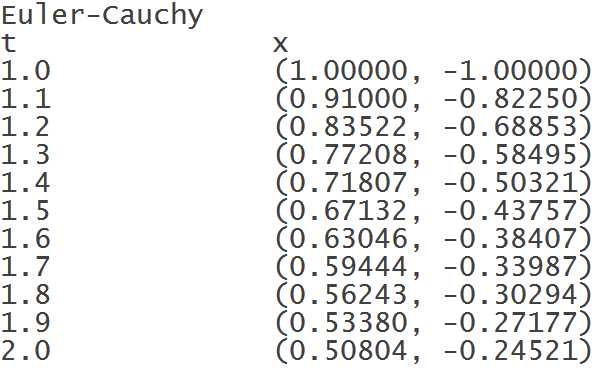
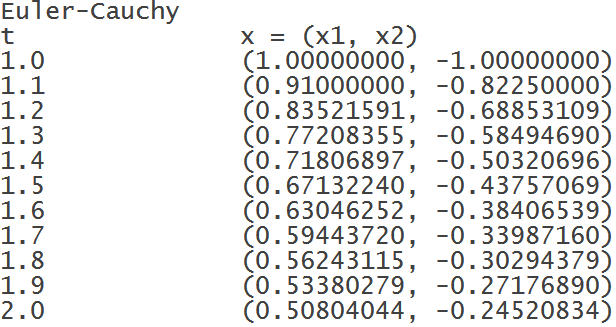
add report to lab2

Changed region(s): [[0.3913, 0.0612, 0.9933, 1.0], [0.0, 0.0, 0.3612, 0.9786]]

diff --git a/lab3/report/latex/lab3.tex b/lab3/report/latex/lab3.tex
@@ -6,25 +6,23 @@
 \include{titlepage}
 
 \section{Цель работы}
-Численно решить систему дифференциальных уравнений.
+Численно решить дифференциальное уравнение 2-го порядка.
 
 \section{Решаемые задачи}
 \begin{enumerate}
 
 \item Привести дифференциальное уравнение второго порядка
 
-\begin{displaymath}
+\label{equation:1}
+\begin{equation}
 	t(t+1)y'' + (3t+2)y'  + y = 0
-\end{displaymath}
+\end{equation}
 
 к системе двух дифференциальных уравнений первого порядка.
-
 
 	Начальные условия: $\left.y \right|_{t=1} = 1$, $\left.y' \right|_{t=1} = -1$, $t \in[1, 2]$  
 
     Точное решение: $y(t)=\frac{1}{t}$	
-		
-
 
 \item Решить с шагом $h = 0.1$
 
@@ -37,47 +35,83 @@
 
 \end{enumerate}
 
-
 \section{Ход выполнения работы}
 
-В ходе выполнения работы было разработано программное обеспечение на языке программирования \textbf{java}, позволяющее решить поставленные задачи. Данное программное обеспечение включает в себя:
+Вначале дифференциальное уравнение \ref{equation:1} при помощи подстановок $x_1(t) = y(t)$ и $x_2(t) = y'(t)$ было приведено к системе:
+
+\begin{displaymath}
+\begin{cases}
+	x'_1(t) = 0 \cdot x_1(t) + 1 \cdot x_2(t)
+	\\
+	x'_2(t) = - \frac{1}{t(t+1)} \cdot x_1(t) - \frac{3t+2}{t(t+1)} \cdot x_2(t)
+\end{cases}
+\end{displaymath}
+
+Затем было разработано программное обеспечение на языке программирования \textbf{java}, позволяющее решить поставленные задачи. Данное программное обеспечение включает в себя:
 \begin{itemize}
 
-\item Библиотеку \textbf{MatrixUtil} с функциями \textbf{decomp} и \textbf{solve}, которые содержат вызовы стандартных форсайтовских функций \textbf{decomp} и \textbf{solve}, разработанных на языке программирования \textbf{с}, из динамической библиотеки.
+\item Библиотеку \textbf{Diffeqs}.
 
-\item Библиотеку \textbf{Matrix}, позволяющую совершать различные действия над матрицами, в том числе, \textit{обращение, произведение, вычитание, вычисление нормы}, которые необходимы для решения поставленных задач.
+ Она включает в себя функцию \textbf{rkf45}, которая содержит вызов стандартной форсайтовской функции \textbf{rkf45}, разработанной на языке программирования \textbf{с}.
 
- \textit{Обращение} матрицы реализовано как n итераций решения системы $\textbf{A}x = \textbf{B}$ при помощи функций \textbf{decomp} и \textbf{solve} c $\textbf{B}$ -- i-м столбцом единичной матрицы на i-й итерации и n -- порядком матрицы. Реализация представлена в листинге \ref{code:Matrix:inverted}.
+ Еще \textbf{Diffeqs} содержит самостоятельно написанную функцию \textbf{eulerCauchy}. Данная функция численно решает дифференциальное уравнение, используя метод Эйлера-Коши 2-й степени:
  
- Реализации \textit{произведения, вычитания, вычисления нормы} представлены в листингах \ref{code:Matrix:multiply}, \ref{code:Matrix:minus} и \ref{code:Matrix:calculateNormAsMaximumAbsoluteColumnSum} соответственно.
+\begin{displaymath}
+\begin{cases}
+	x_{n+1}^{*} = x_n + hf(t_n, x_n)
+	\\
+	x_{n+1} = x_n + \frac{h}{2} \Big (f(t_n, x_n) + f(t_{n+1}, x_{n+1}^{*}) \Big) 
+\end{cases}
+\end{displaymath} 
+ 
+ Функция \textbf{eulerCauchy} представлена в листинге \ref{code:EulerCauchy}.
 
-\item Приложение, решающее поставленные задачи и использующее ранее перечисленные библиотеки (листинг \ref{code:Lab2}).
+\item Приложение, решающее решающее заданную систему дифференциальных уравнений точно (по формуле $y(t) = \frac{1}{t}$), при помощи \textbf{rkf45} и функцией \textbf{eulerCauchy}, реализующей метод Эйлера-Коши (листинг \ref{code:Lab3}).
 
-\end{itemize} 
+\end{itemize}
+
+На рисунках \ref{pic:demo1} и \ref{pic:demo2} изображен вывод работы программы: результат решения системы дифференциальных уравнений на отрезке $1\dots2$ с шагом $h=0.1$ стандартной функцией \textbf{rkf45}, функцией \textbf{eulerCauchy} и по аналитически полученной точной формуле соответственно.
 
 \begin{figure}[H]
     \centering
     \begin{subfigure}[t]{0.5\textwidth}
         \centering
-        \includegraphics[height=1.75in]{rkf45}
+        \includegraphics[height=1.72in]{rkf45}
         \caption{RKF45}
     \end{subfigure}%
     ~ 
     \begin{subfigure}[t]{0.5\textwidth}
         \centering
-        \includegraphics[height=1.75in]{euler_cauchy}
+        \includegraphics[height=1.72in]{euler_cauchy}
         \caption{Метод Эйлера-Коши}
     \end{subfigure}
     \caption{Вывод программы}
     \label{pic:demo1}
+\end{figure}
+
+\begin{figure}[H]
+    \centering
+    \includegraphics[height=2.2in]{exact}
+    \caption{Вывод программы: точное решение}
+    \label{pic:demo2}
 \end{figure} 
 
-На рисунках \ref{pic:graphic1} и \ref{pic:graphic2} изображены графики зависимости нормы матрицы от $\varepsilon$ на всем интервале и на отрезке $[10^{-16}, 10^{-1}]$ соответственно.
+По выводу программы видно, что значения, полученные с использованием функции \textbf{rkf45}, совпадают с точными значениями с точностью 7 - 8 знаков после точки, а значения, полученные методом Эйлера-Коши имеют точность 1 - 2 знака после точки. 
 
 \section{Выводы}
+
+Решение системы дифференциальных уравнений при помощи функции \textbf{rkf45} оказалось более точным, чем решение методом Эйлера-Коши. Полученный результат был ожидаем, потому что функция \textbf{rkf45} реализует методы Рунге-Кутты 4-й и 5-й степени, в то время как метод Эйлера-Коши имеет лишь 2-ую степень.
 
 \newpage
 
 \section*{Приложение 1. Листинги кода}
+
+\captionof{lstlisting}{Приложение}
+\lstinputlisting[label=code:Lab3, linerange={15-87}]{../../../app/src/main/java/com/lamtev/comp_maths_labs/lab3/app/Lab3.java}
+\parindent=1cm
+
+\captionof{lstlisting}{Функция eulerCauchy}
+\lstinputlisting[label=code:EulerCauchy, linerange={7-39}]{../../../diffeqs_lib/src/main/java/com/lamtev/comp_maths_labs/lab3/diffeqs_lib/EulerCauchy.java}
+\parindent=1cm
 
 \end{document}

diff --git a/lab3/app/src/main/java/com/lamtev/comp_maths_labs/lab3/app/Lab3.java b/lab3/app/src/main/java/com/lamtev/comp_maths_labs/lab3/app/Lab3.java
@@ -13,25 +13,19 @@ import static com.lamtev.comp_maths_labs.lab3.diffeqs_lib.RKF45.rkf45;
 public class Lab3 {
 
     private static final int N = 2;
-
     private static final double[] INITIAL_CONDITIONS = {1, -1};
-
     private static final double LEFT = 1;
-
     private static final double RIGHT = 2;
-
     private static final double STEP = 0.1;
 
-    private static final Fun FUN = (t, X, DX) -> {
-        DX[0] = 0 * X[0] + 1 * X[1];
-        DX[1] = -(1 / (t * (t + 1))) * X[0] - (3 * t + 2) / (t * (t + 1)) * X[1];
+    private static final Fun FUN = (t, x, dx) -> {
+        dx[0] = 0 * x[0] + 1 * x[1];
+        dx[1] = -(1 / (t * (t + 1))) * x[0] - (3 * t + 2) / (t * (t + 1)) * x[1];
     };
 
     public static void main(String[] args) {
         exactDemo();
-        System.out.println();
         rkf45Demo();
-        System.out.println();
         eulerCauchyDemo();
     }
 
@@ -66,7 +60,6 @@ public class Lab3 {
         MutableInt iFlag = new MutableInt(1);
         double[] work = new double[15];
         int[] iWork = new int[5];
-
         System.out.println("RKF45");
         printTAndX();
         for (double tout = LEFT; tout <= RIGHT + STEP; tout += STEP) {
@@ -77,13 +70,13 @@ public class Lab3 {
     }
 
     private static void printTAndX() {
-        System.out.println("t\t\tx");
+        System.out.println("t\t\tx = (x1, x2)");
     }
 
     private static void printTAndXValues(double t, double[] x) {
         System.out.format(Locale.US, "%1.1f\t\t", t);
-        System.out.format(Locale.US, "(%1.5f, ", x[0]);
-        System.out.format(Locale.US, "%1.5f)\n", x[1]);
+        System.out.format(Locale.US, "(%1.8f, ", x[0]);
+        System.out.format(Locale.US, "%1.8f)\n", x[1]);
     }
 
 }

diff --git a/lab2/report/latex/lab2.tex b/lab2/report/latex/lab2.tex
@@ -35,7 +35,7 @@ A=
 В ходе выполнения работы было разработано программное обеспечение на языке программирования \textbf{java}, позволяющее решить поставленные задачи. Данное программное обеспечение включает в себя:
 \begin{itemize}
 
-\item Библиотеку \textbf{MatrixUtil} с функциями \textbf{decomp} и \textbf{solve}, которые содержат вызовы стандартных форсайтовских функций \textbf{decomp} и \textbf{solve}, разработанных на языке программирования \textbf{с}, из динамической библиотеки.
+\item Библиотеку \textbf{MatrixUtil} с функциями \textbf{decomp} и \textbf{solve}, которые содержат вызовы стандартных форсайтовских функций \textbf{decomp} и \textbf{solve}, разработанных на языке программирования \textbf{с}.
 
 \item Библиотеку \textbf{Matrix}, позволяющую совершать различные действия над матрицами, в том числе, \textit{обращение, произведение, вычитание, вычисление нормы}, которые необходимы для решения поставленных задач.
 

diff --git a/lab3/diffeqs_lib/src/main/java/com/lamtev/comp_maths_labs/lab3/diffeqs_lib/DiffeqsUtil.java b/lab3/diffeqs_lib/src/main/java/com/lamtev/comp_maths_labs/lab3/diffeqs_lib/DiffeqsUtil.java
@@ -20,7 +20,7 @@ public class DiffeqsUtil {
         void perform(double t, double[] x, double[] dx);
     }
 
-    private static final String FORSYTHE_RKF45_LIBRARY_PREFIX = "forsythe_rkf45";
+    private static final String FORSYTHE_RKF45_LIBRARY_PREFIX = "libforsythe_rkf45";
 
     interface ForsytheRKF45Library extends Library {
 
@@ -32,7 +32,7 @@ public class DiffeqsUtil {
         }
 
         void rkf45(Fun fun, int n, double[] x, DoubleByReference t, DoubleByReference tOut,
-                DoubleByReference relErr, DoubleByReference absErr,
+                   DoubleByReference relErr, DoubleByReference absErr,
                    IntByReference iFlag, double[] work, int[] iWork);
 
     }
